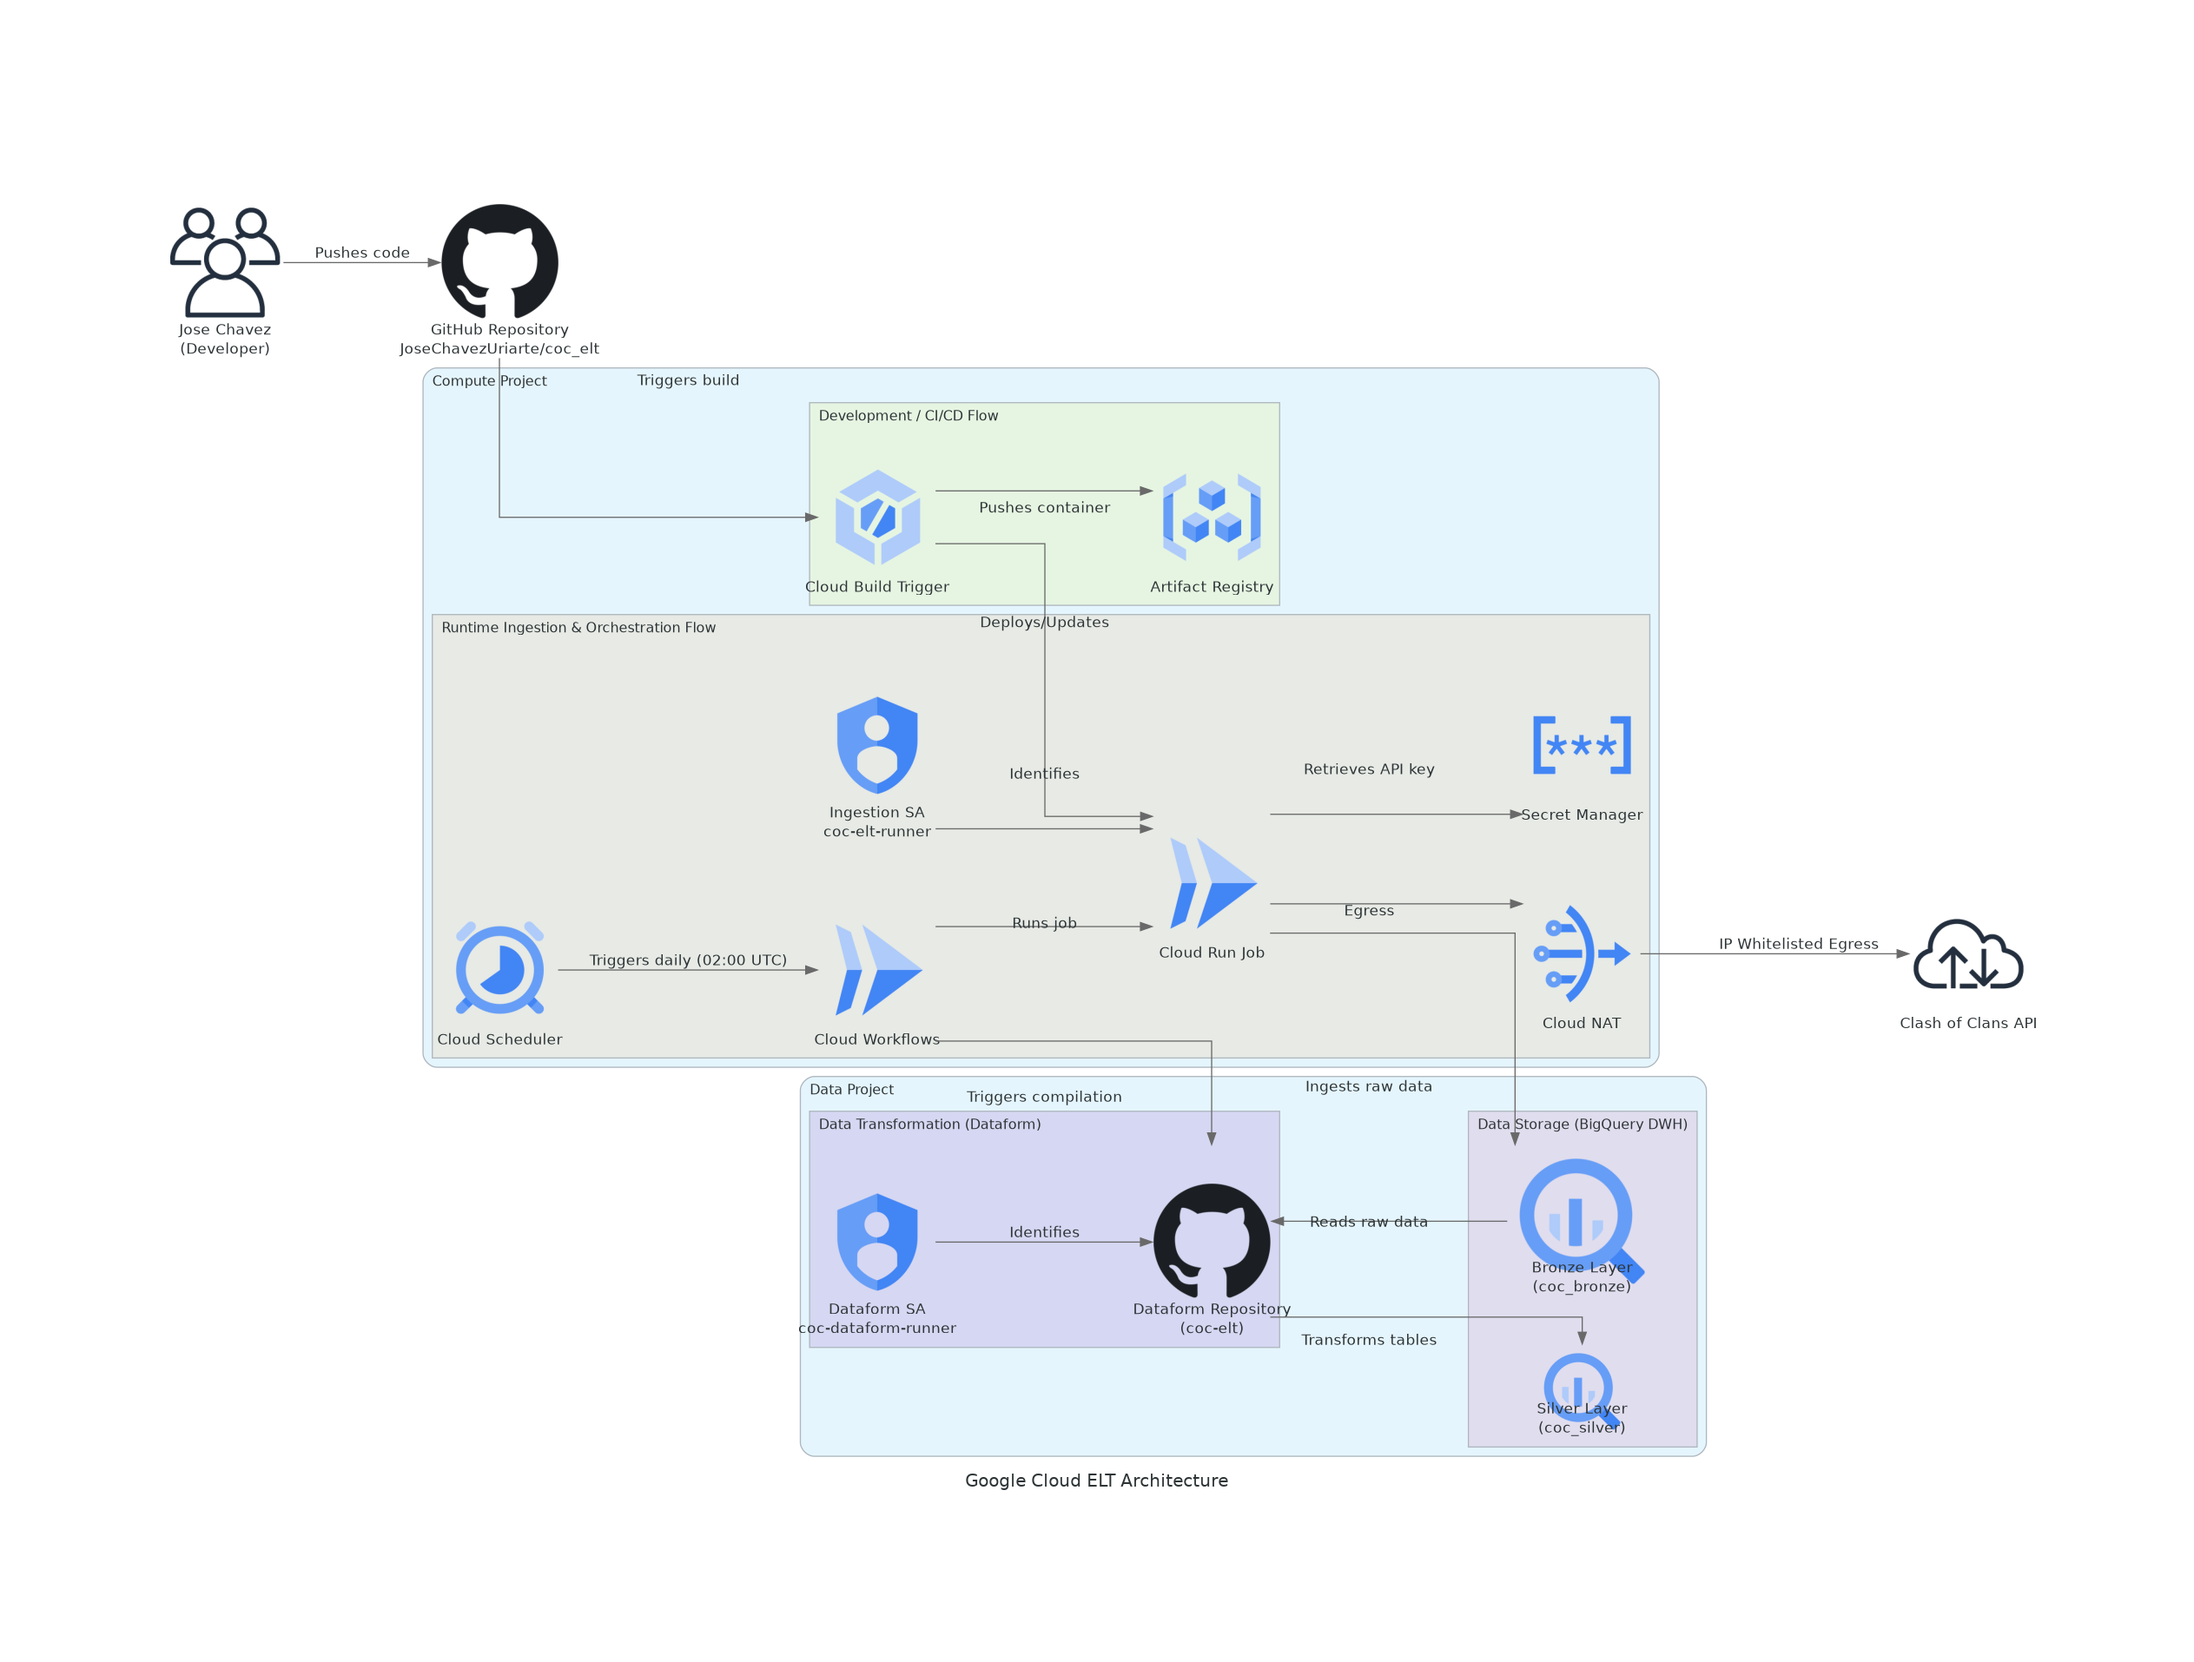
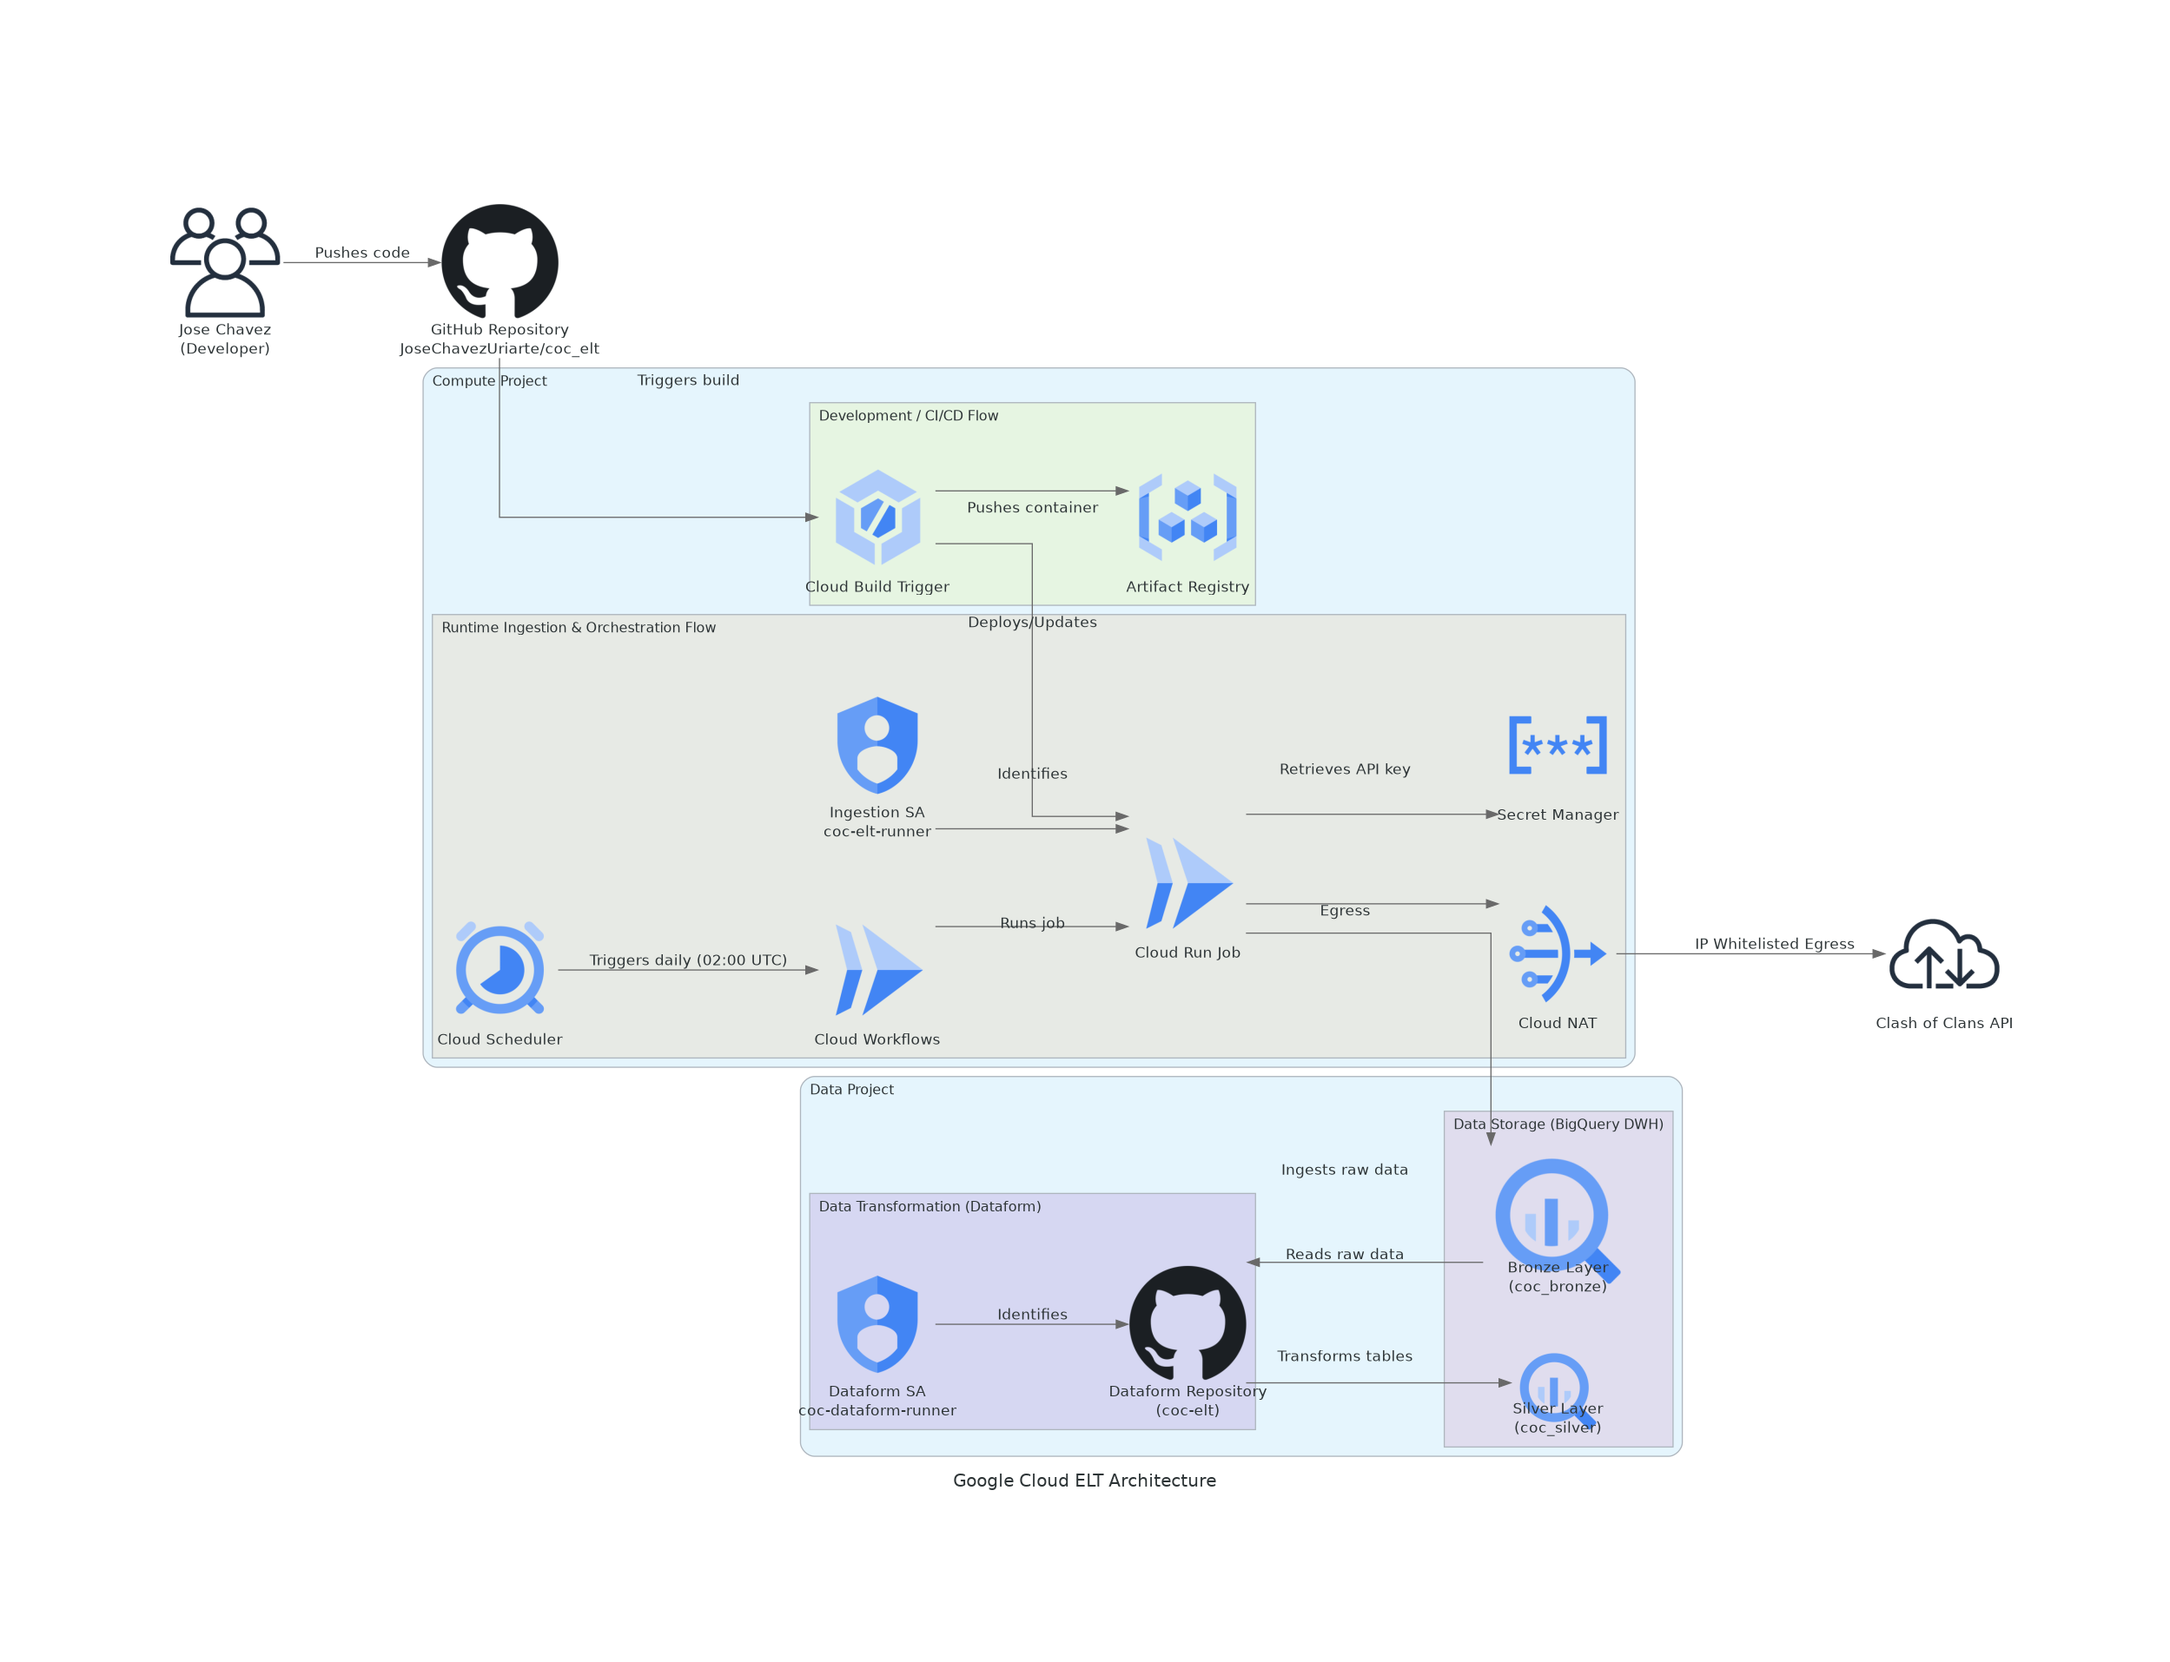
chore: Delete unnecessary arrow from infraestructure image

diff --git a/generate_infra.py b/generate_infra.py
@@ -80,7 +80,7 @@ def main():
             
             run_job >> Edge(label="Ingests raw data", color="dimgray") >> bq_bronze
             
-            workflows >> Edge(label="Triggers compilation", color="dimgray") >> dataform_repo
+            # workflows >> Edge(label="Triggers compilation", color="dimgray") >> dataform_repo
             dataform_sa >> Edge(label="Identifies", color="dimgray") >> dataform_repo
             
             # Dataform flow reads from Bronze and transforms/writes to Silver
